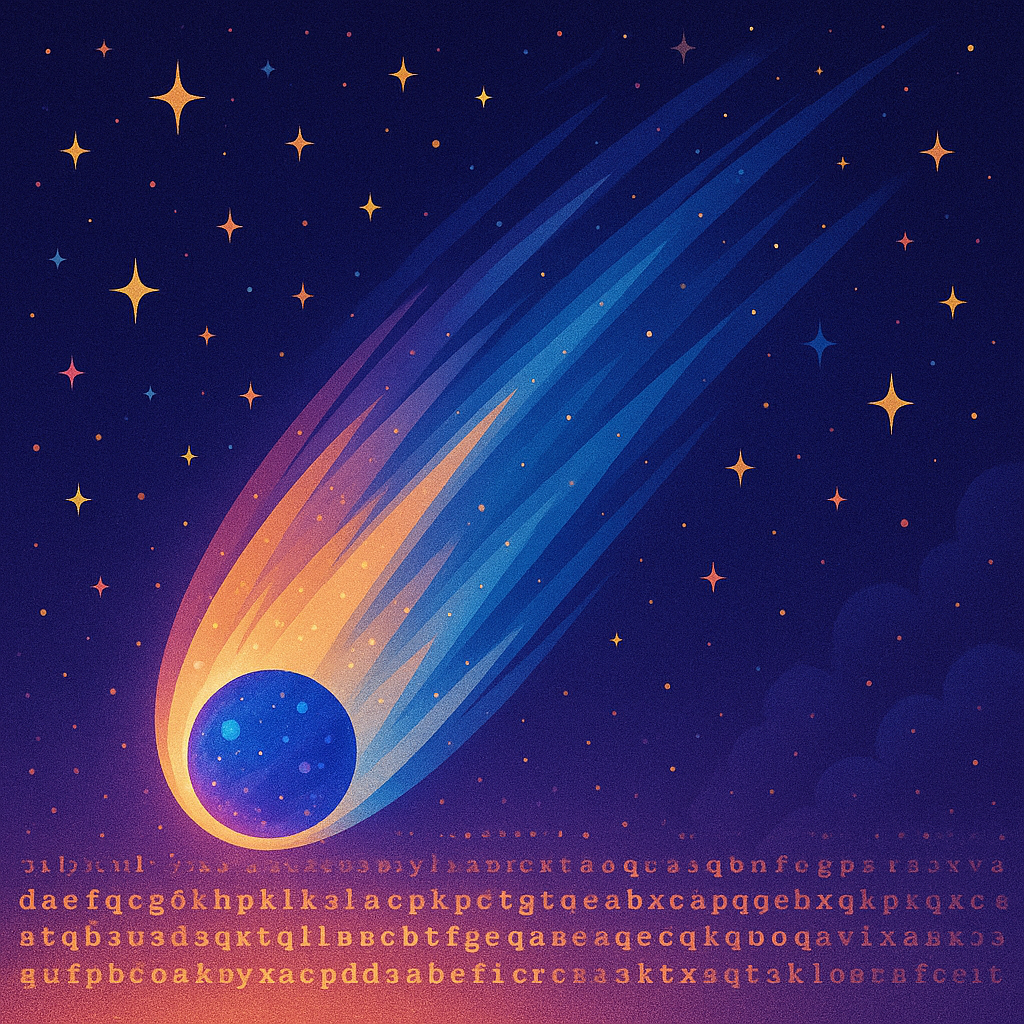
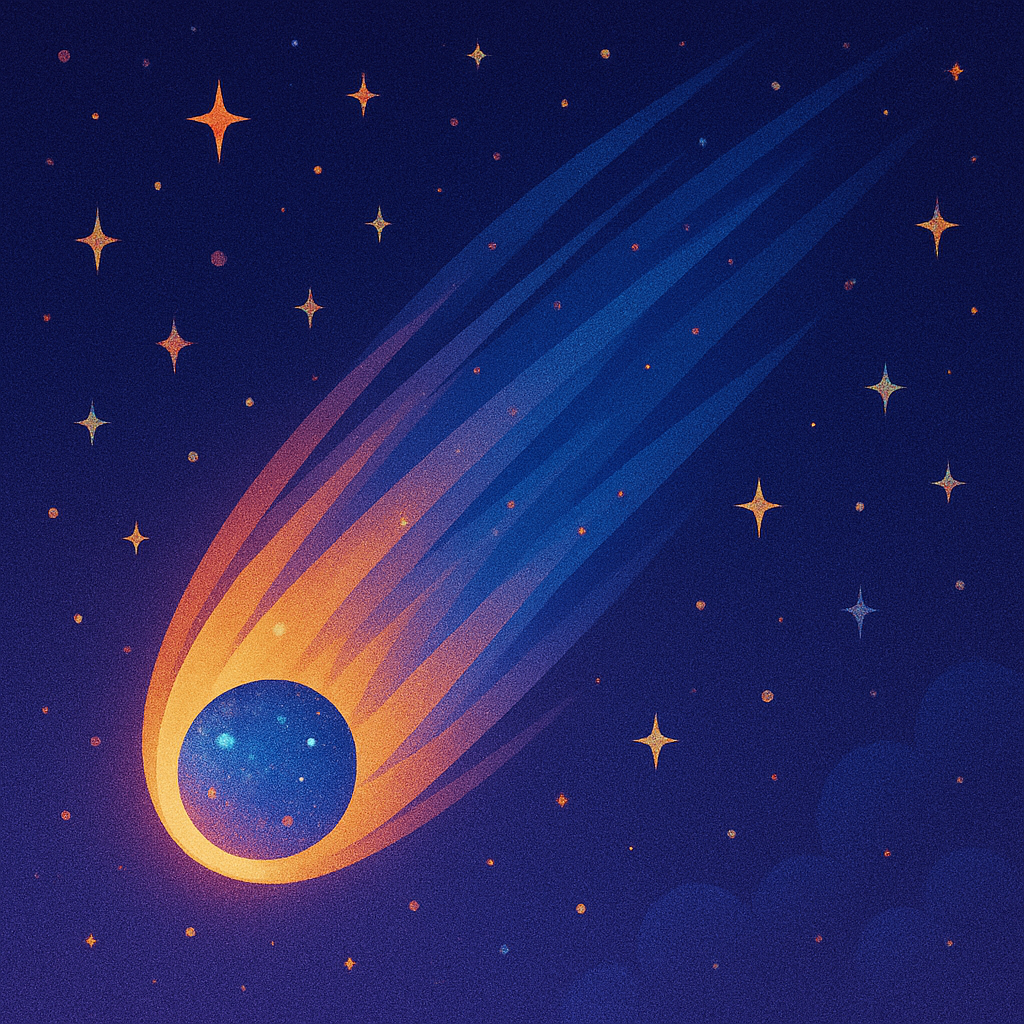
mylogger script

diff --git a/src/utils/mylogger.py b/src/utils/mylogger.py
@@ -1,0 +1,27 @@
+#create a wrapper for the logging module
+import logging
+import os
+
+def create(name:str = 'mylogger') -> logging.Logger:
+    try:   
+        logger = logging.getLogger(name)
+        logger.setLevel(logging.DEBUG)
+
+        log_dir = './logs'
+        if not os.path.exists(log_dir):
+            os.makedirs(log_dir)
+        log_file = os.path.join(log_dir, f'{name}.log')
+        open(log_file, 'w').close()
+        fh = logging.FileHandler(log_file)
+        fh.setLevel(logging.DEBUG)
+
+        formatter = logging.Formatter('%(asctime)s - %(name)s - %(levelname)s - %(message)s')
+        fh.setFormatter(formatter)
+
+        logger.addHandler(fh)
+
+        logger.info('Logger successfully created')
+        return logger
+    except Exception as e:
+        print(f'Error creating logger: {e}')
+        return None

diff --git a/README.md b/README.md
@@ -7,7 +7,7 @@ Anonymous DP-COMET repository for double-blind revisions
 
 | ![DP-COMET](./img/repo/COMET-DP.png) | 
 |:--:| 
-| *Image generated by ChatGPT-4o: Icon of COMET-DP falling on texts.* |
+| *Image generated by ChatGPT-4o: Icon of COMET-DP.* |
 
 ## Setup Environment
 1. Clone the repository
